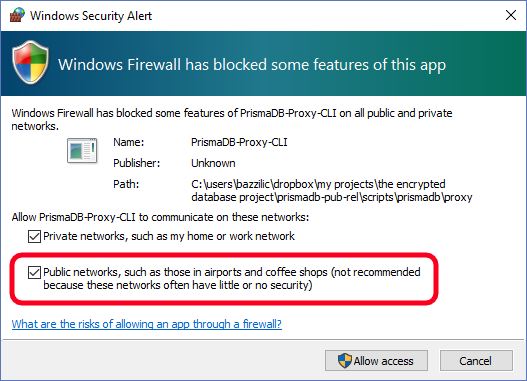
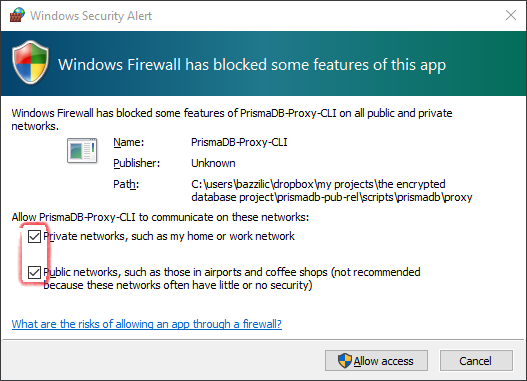
Faster and better launch; new features

diff --git a/README.md b/README.md
@@ -29,27 +29,33 @@ However, Docker is smart and only needs to pull the base image once.
 
 2. From command prompt run the script `launch.ps1`.
 
-3. On a typical Windows 10 install, you will be prompted to allow new application to access network. Make sure to allow it to access public networks:  
+3. On a typical Windows 10 install, you will be prompted to allow new application to access network. Make sure to allow it to access public networks:
 ![](https://raw.githubusercontent.com/PrismaDB/PrismaDB/master/img/firewall.png)
 
-4. Wait until you see the SQLCMD prompt:  
+4. Wait until you see the SQLCMD prompt:
 ![](https://raw.githubusercontent.com/PrismaDB/PrismaDB/master/img/sqlcmd.gif)
  * If you are having troubles running the script, make sure that your Powershell execution policy is set to `RemoteSigned` (see this instruction: https://superuser.com/a/106363)
 
 5. Use some of the following queries to try out the encrypted database:
 
 ```SQL
+CREATE DATABASE TestDB
+GO
+
+USE TestDB
+GO
+
 CREATE TABLE TT
 (
 	a INT ENCRYPTED FOR (INTEGER_MULTIPLICATION, INTEGER_ADDITION, SEARCH),
 	b INT ENCRYPTED FOR (INTEGER_MULTIPLICATION, INTEGER_ADDITION, SEARCH),
 	c INT,
-	d VARCHAR(100) ENCRYPTED FOR (TEXT, SEARCH),
-	e VARCHAR(100)
+	d VARCHAR(30) ENCRYPTED FOR (TEXT, SEARCH),
+	e VARCHAR(30)
 )
 GO
 
-INSERT INTO TT (TT.a, TT.b, TT.c, TT.d, TT.e) VALUES
+INSERT INTO TT (a, b, c, d, e) VALUES
 ( 1,  2,   3, 'Hello', 'Prisma/DB'),
 (12,  0,   7, 'Test', 'data'),
 ( 0,  2, 123, 'This is encrypted', 'And this is not'),
@@ -57,10 +63,10 @@ INSERT INTO TT (TT.a, TT.b, TT.c, TT.d, TT.e) VALUES
 GO
 
 -- Arithmetic operations over encrypted values
-SELECT TT.a, TT.b, TT.a + TT.b AS [SUM], TT.b * TT.a AS [MUL], (TT.b * TT.a) + TT.b AS [EXPR]
+SELECT a, b, a + b AS [SUM], b * a AS [MUL], (b * a) + b AS [EXPR]
 FROM   TT
-WHERE  TT.b = 2
+WHERE  b = 2
 GO
 ```
 
-Connect to the database server directly (find IP address by calling the `get-SQL-Server-IPAddr.ps1` script, the port is 1433) using any database management tool (SSMS, HeidiSQL, dbeaver) and ensure that the database is indeed encrypted.
+Connect to the database server directly (find IP address by calling the `get-SQL-Server-IPAddr.ps1` script, the port is 1433) using any database management tool (SSMS, HeidiSQL, dbeaver) and see the partially encrypted database as it is stored on the server.
